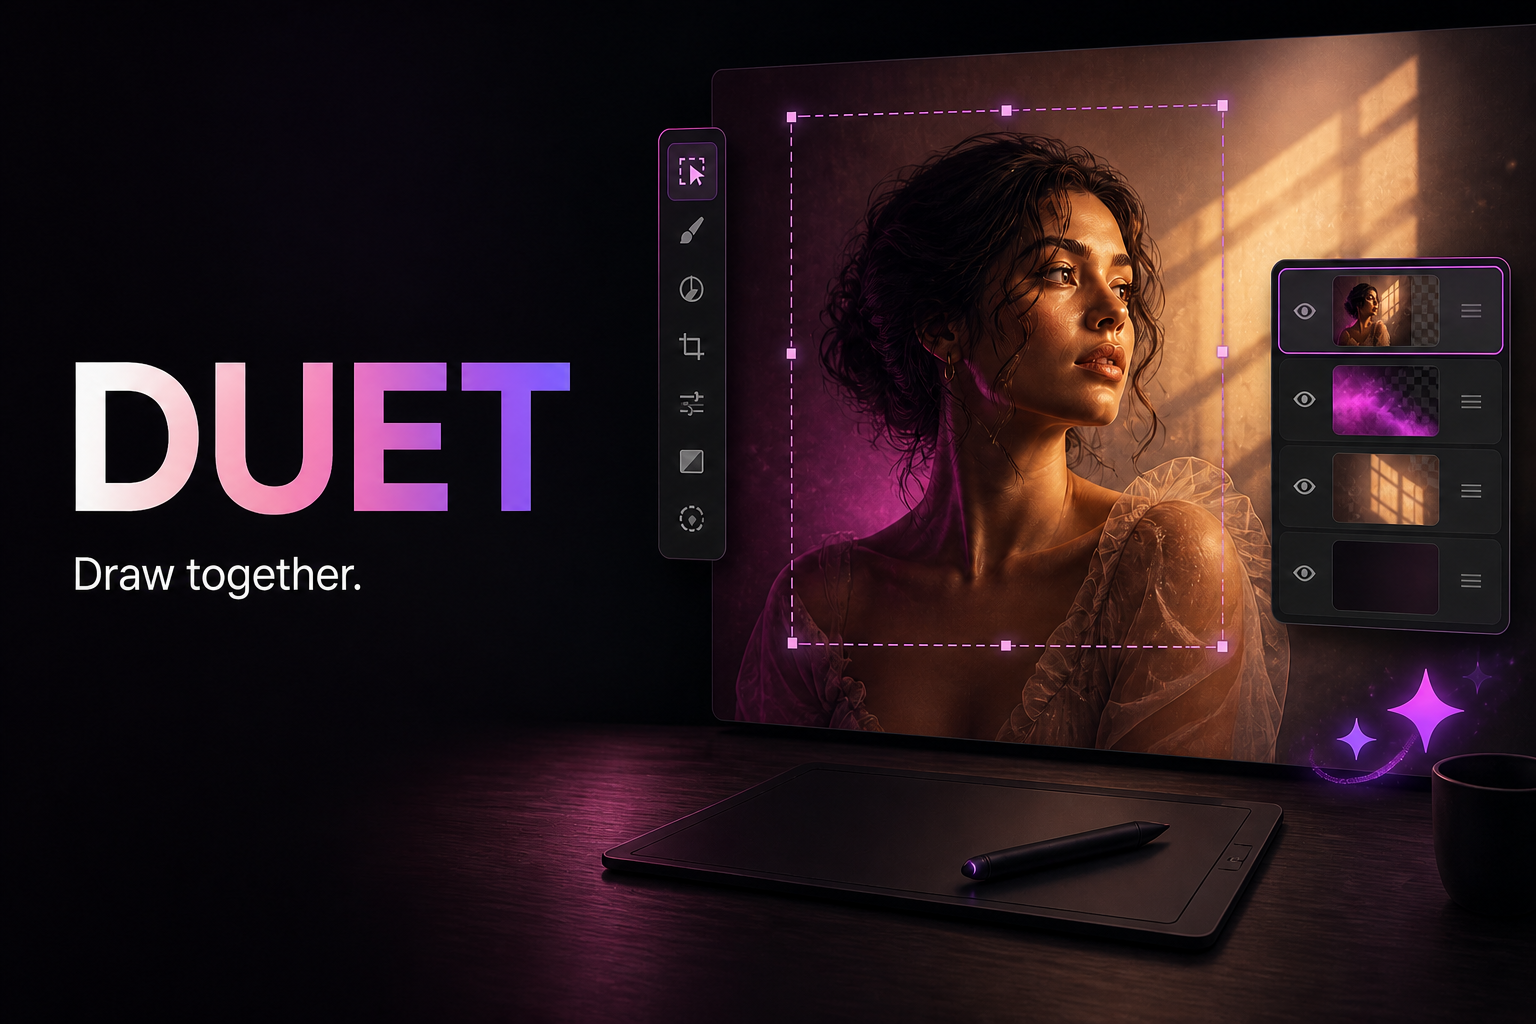
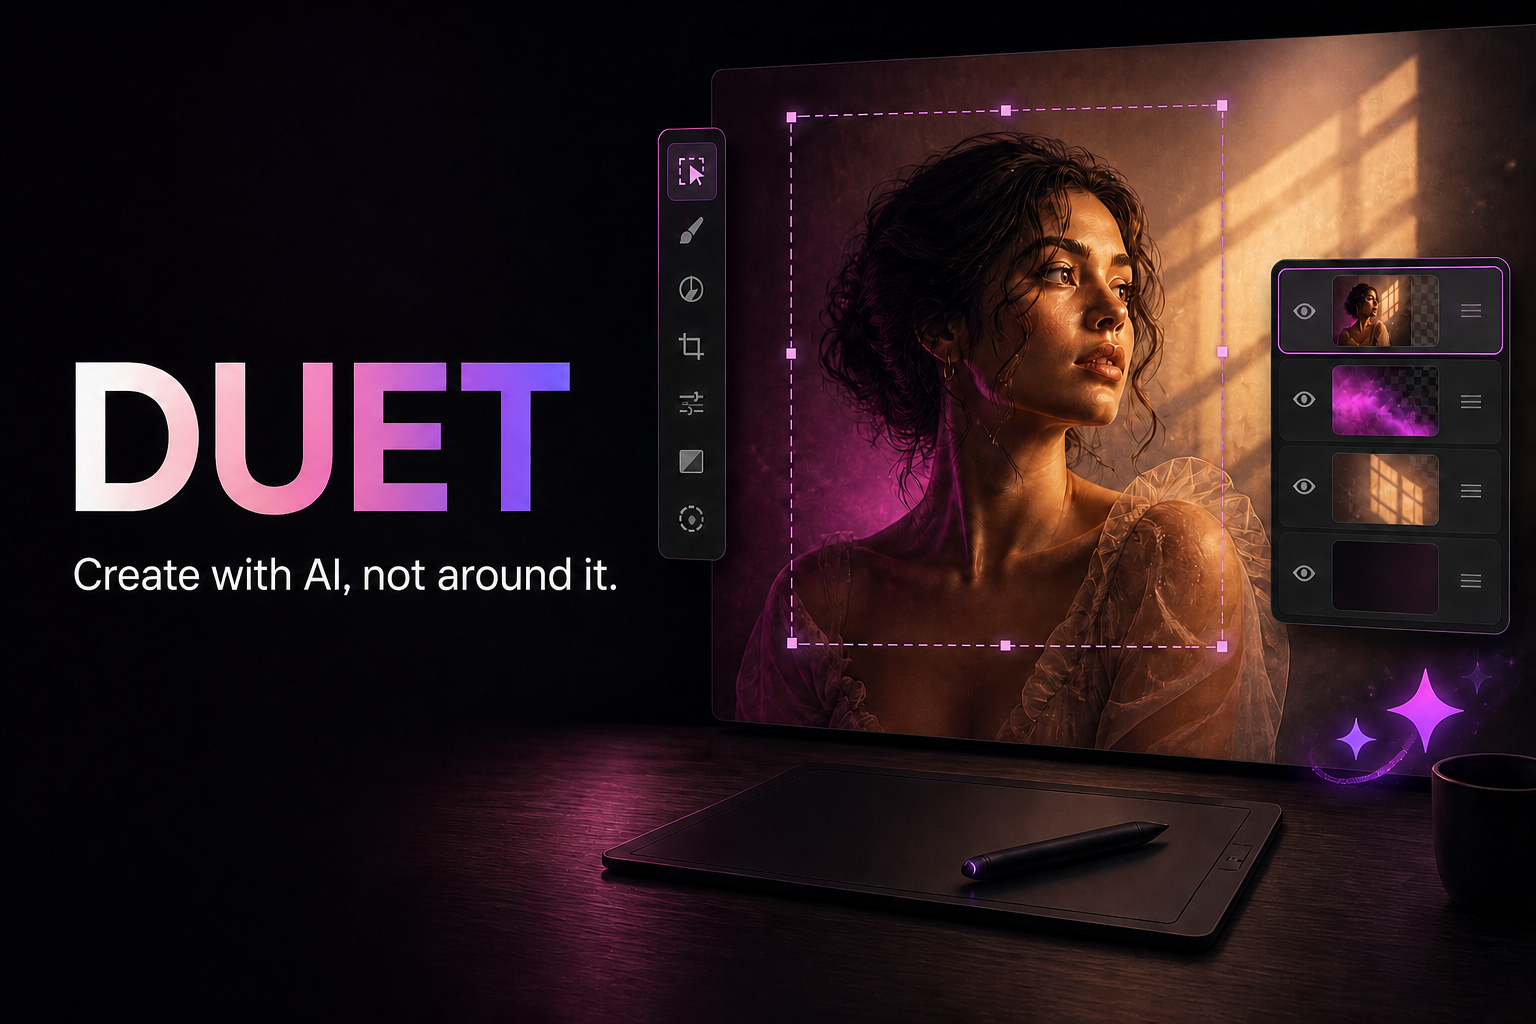
Update DUET tagline

diff --git a/app/duet.tsx b/app/duet.tsx
@@ -467,7 +467,7 @@ export function Duet() {
 
   return <TooltipProvider delay={350}><main className="editor-shell">
     <header className="topbar">
-      <div className="brand-lockup"><div className="brand-mark"><Sparkles size={15} /></div><span>DUET</span><span className="mvp-pill">DRAW TOGETHER</span></div>
+      <div className="brand-lockup"><div className="brand-mark"><Sparkles size={15} /></div><span>DUET</span><span className="mvp-pill">CREATE WITH AI</span></div>
       <div className="document-title"><span>Untitled portrait</span><ChevronDown size={13} /></div>
       <div className="header-actions"><div className="mcp-status" title={webMcp === 'ready' ? 'Native WebMCP tools are registered' : 'Tools activate in a WebMCP-compatible browser'}><span className={`status-dot ${webMcp === 'ready' && agentConnection !== 'disconnected' && agentConnection !== 'new' ? 'ready' : agentConnection === 'disconnected' ? 'disconnected' : ''}`} /><Bot size={14} /><span>{webMcp !== 'ready' ? '8 agent tools' : agentConnection === 'waiting' ? 'Agent connected' : agentConnection === 'processing' ? 'Agent processing' : agentConnection === 'disconnected' ? 'Agent disconnected' : 'WebMCP ready'}</span></div><Button variant="ghost" size="sm" onClick={exportImage}><Download />PNG</Button><Button size="sm" className="export-button" onClick={exportProject}><Download />Project</Button></div>
     </header>

diff --git a/app/layout.tsx b/app/layout.tsx
@@ -7,18 +7,18 @@ export const metadata: Metadata = {
       ? `https://${process.env.VERCEL_PROJECT_PRODUCTION_URL}`
       : 'http://localhost:3000',
   ),
-  title: 'DUET — Draw together',
-  description: 'A collaborative canvas where humans and browser agents draw together through WebMCP.',
+  title: 'DUET — Create with AI, not around it.',
+  description: 'A collaborative canvas to create with AI, not around it, through WebMCP.',
   openGraph: {
-    title: 'DUET — Draw together',
-    description: 'Human hands. Agent speed. One canvas.',
+    title: 'DUET — Create with AI, not around it.',
+    description: 'Create with AI, not around it.',
     type: 'website',
-    images: [{ url: '/og.png', width: 1536, height: 1024, alt: 'DUET collaborative drawing editor' }],
+    images: [{ url: '/og.png', width: 1536, height: 1024, alt: 'DUET AI creative editor' }],
   },
   twitter: {
     card: 'summary_large_image',
-    title: 'DUET — Draw together',
-    description: 'Human hands. Agent speed. One canvas.',
+    title: 'DUET — Create with AI, not around it.',
+    description: 'Create with AI, not around it.',
     images: ['/og.png'],
   },
 };
